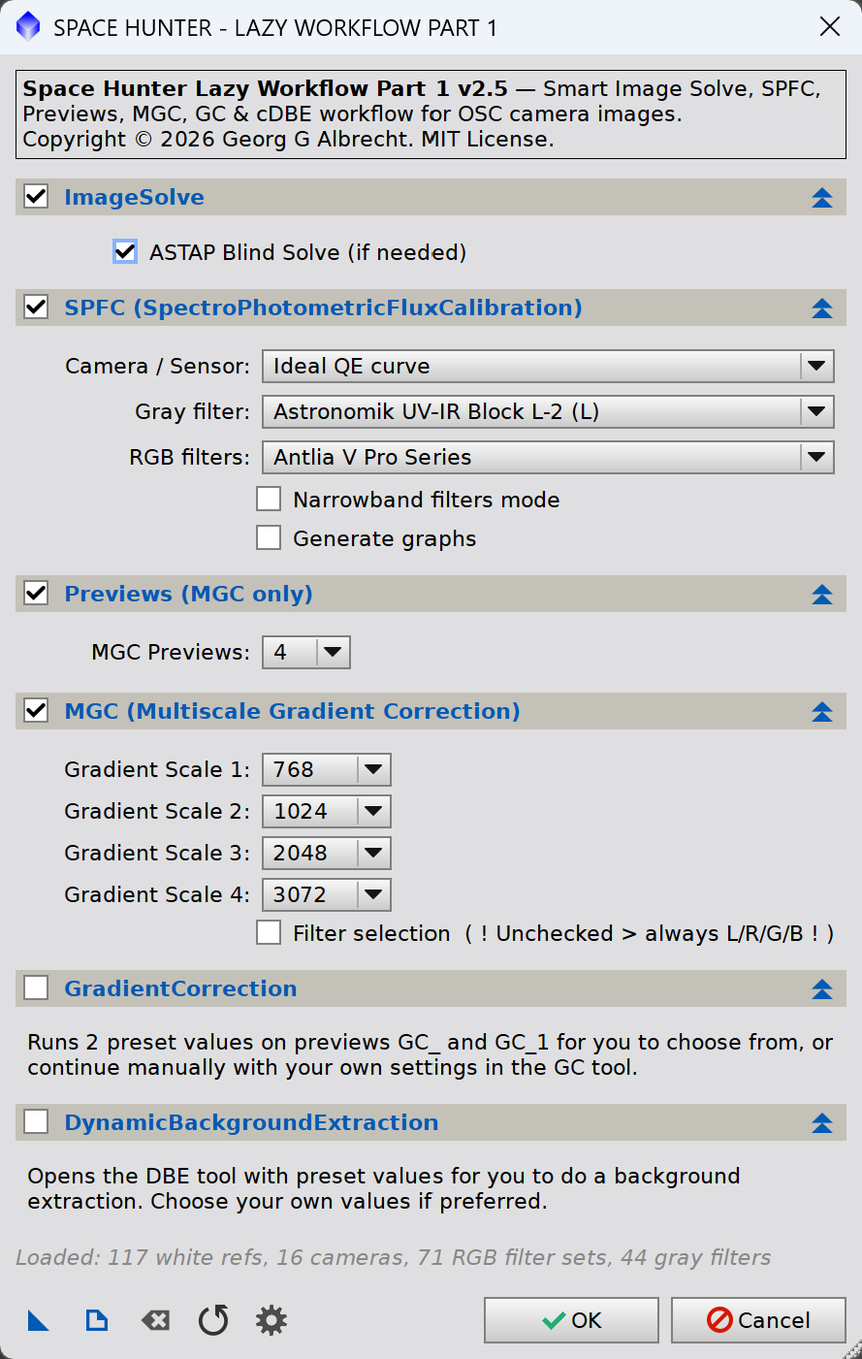
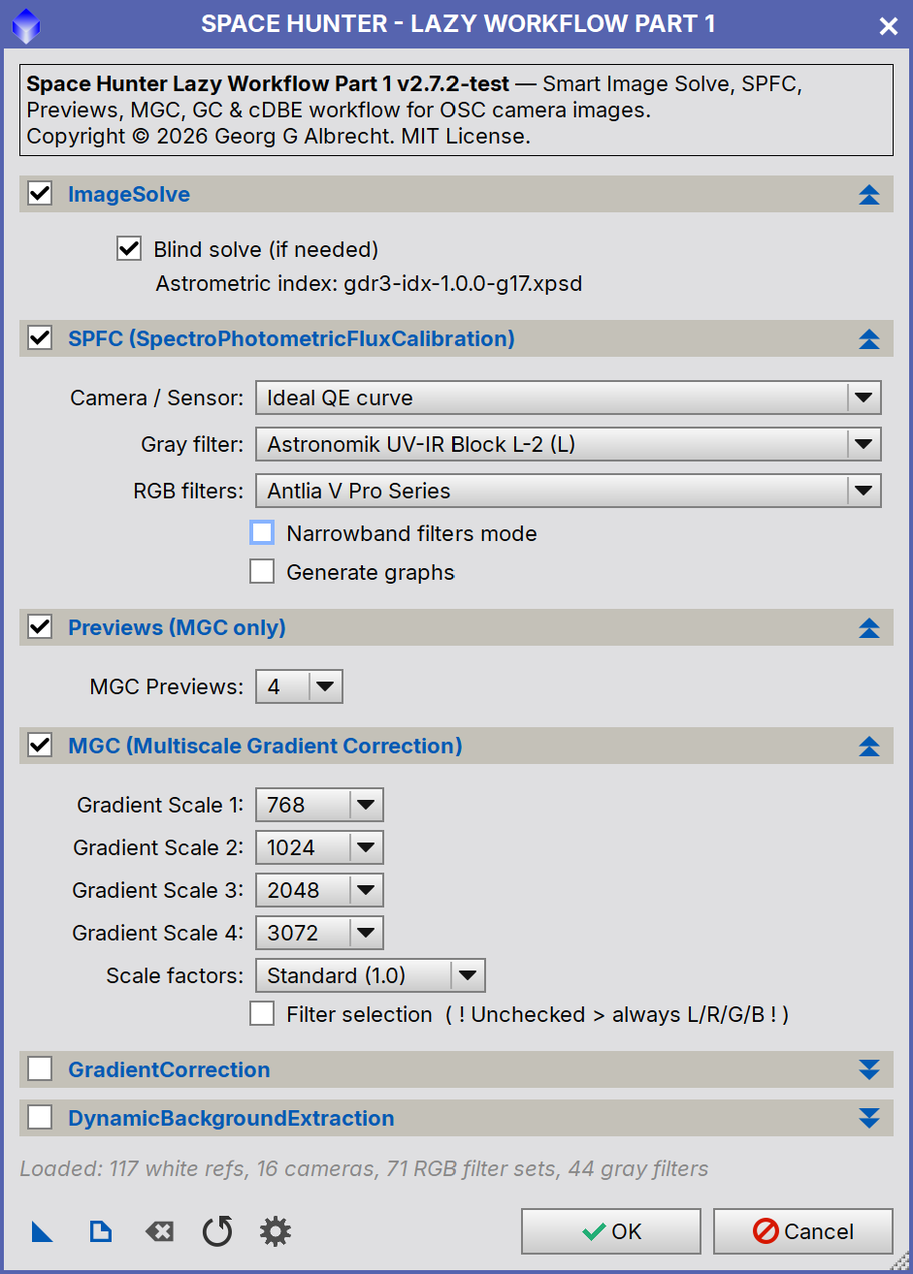
Part 1 manual for v2.7.4: scale factors, gradient scales, model panels
- New sections: Choosing Gradient Scales (pixels, drizzle 2x = double,
  starting values by arcsec/px) and Scale Factors (Standard / Automatic /
  Both, correlation and warning mark)
- Model window: factor header, shared stronger stretch, Add scale with Both;
  GC window: Show gradient models
- Preview names with _autoSF; re-run checks follow History Explorer
- Separation example 0.09 / 0.03, consistent on four targets
- New screenshots: dialog (default, dual-band), scale factor menu, MGC and
  GC windows

diff --git a/doc/scripts/SH Lazy Workflow Part 1/SH Lazy Workflow Part 1.html b/doc/scripts/SH Lazy Workflow Part 1/SH Lazy Workflow Part 1.html
@@ -3,7 +3,7 @@
 <head>
    <meta http-equiv="content-type" content="text/html; charset=UTF-8" />
    <title>PixInsight Reference Documentation | SH Lazy Workflow Part 1</title>
-   <meta name="keywords" content="Space Hunter, OSC, ASTAP, ImageSolver, SPFC, flux calibration, RGB, dual-narrowband, Ha/OIII separation, MultiscaleGradientCorrection, GradientCorrection, DynamicBackgroundExtraction" />
+   <meta name="keywords" content="Space Hunter, OSC, ImageSolver, blind solve, SPFC, flux calibration, RGB, dual-narrowband, Ha/OIII separation, MultiscaleGradientCorrection, GradientCorrection, DynamicBackgroundExtraction" />
    <meta name="author" content="Georg G. Albrecht" />
    <meta name="description" content="Automates the linear OSC workflow from plate solving to background extraction: smart plate solve, SPFC, previews and MGC, with GC and DBE as alternatives." />
    <meta name="robots" content="INDEX,FOLLOW" />
@@ -32,7 +32,7 @@
 <p>Automates the linear OSC workflow from plate solving to background extraction: smart plate solve, SPFC, previews and MGC, with GC and DBE as alternatives. <a href="#__contents__">[more]</a></p></div>
 
 <div id="keywords">
-<p><strong>Keywords:</strong> Space Hunter, OSC, ASTAP, ImageSolver, SPFC, flux calibration, RGB, dual-narrowband, Ha/OIII separation, MultiscaleGradientCorrection, GradientCorrection, DynamicBackgroundExtraction</p>
+<p><strong>Keywords:</strong> Space Hunter, OSC, ImageSolver, blind solve, SPFC, flux calibration, RGB, dual-narrowband, Ha/OIII separation, MultiscaleGradientCorrection, GradientCorrection, DynamicBackgroundExtraction</p>
 </div>
 
 <h3 class="pidoc_sectionTitle" id="__toc__">Contents</h3>
@@ -57,7 +57,9 @@
 <li class="pidoc_tocSubitem"><a href="#__Usage_:_Step_3_mdash_Create_Previews_MGC_only__">2.4&emsp;Step 3 &mdash; Create Previews (MGC only)</a></li>
 <li class="pidoc_tocSubitem"><a href="#__Usage_:_Step_4_mdash_MGC_MultiscaleGradientCorrection__">2.5&emsp;Step 4 &mdash; MGC (MultiscaleGradientCorrection)</a>
 <ul>
-<li class="pidoc_tocSubitem"><a href="#__Usage_:_Step_4_mdash_MGC_MultiscaleGradientCorrection_:_Choose_Background_Model__">2.5.1&emsp;Choose Background Model</a></li>
+<li class="pidoc_tocSubitem"><a href="#__Usage_:_Step_4_mdash_MGC_MultiscaleGradientCorrection_:_Choosing_Gradient_Scales__">2.5.1&emsp;Choosing Gradient Scales</a></li>
+<li class="pidoc_tocSubitem"><a href="#__Usage_:_Step_4_mdash_MGC_MultiscaleGradientCorrection_:_Scale_Factors__">2.5.2&emsp;Scale Factors</a></li>
+<li class="pidoc_tocSubitem"><a href="#__Usage_:_Step_4_mdash_MGC_MultiscaleGradientCorrection_:_Choose_Background_Model__">2.5.3&emsp;Choose Background Model</a></li>
 </ul>
 </li>
 <li class="pidoc_tocSubitem"><a href="#__Usage_:_Step_5_mdash_GC_GradientCorrection__">2.6&emsp;Step 5 &mdash; GC (GradientCorrection)</a></li>
@@ -111,11 +113,11 @@
 <a id="__figure_1__"></a>
 <p><span class="pidoc_figure_title">Figure 1 &mdash;</span>  <strong>Part 1 dialog</strong></p>
 <div class="pidoc_mouseover">
-<img class="pidoc_image_right" src="images/Part1_0.png" style="width:400px;" id="h4H1VOR2bcjxNi4C" alt="" />
+<img class="pidoc_image_right" src="images/Part1_0.png" style="width:400px;" id="qpW4aeGz4FqVbzHd" alt="" />
 <ul>
-<li><span class="pidoc_indicator_default" id="h4H1VOR2bcjxNi4C_1"></span><a href="javascript:void(0);" onmouseover="pidoc_setImgSrc('h4H1VOR2bcjxNi4C', 'images/Part1_0.png'); pidoc_hideGroup('h4H1VOR2bcjxNi4C', 3); pidoc_setOpacity('h4H1VOR2bcjxNi4C_1', 1.0);">Overview</a></li>
-<li><span class="pidoc_indicator" id="h4H1VOR2bcjxNi4C_2"></span><a href="javascript:void(0);" onmouseover="pidoc_setImgSrc('h4H1VOR2bcjxNi4C', 'images/Part1_1.png'); pidoc_hideGroup('h4H1VOR2bcjxNi4C', 3); pidoc_setOpacity('h4H1VOR2bcjxNi4C_2', 1.0);">Default settings</a></li>
-<li><span class="pidoc_indicator" id="h4H1VOR2bcjxNi4C_3"></span><a href="javascript:void(0);" onmouseover="pidoc_setImgSrc('h4H1VOR2bcjxNi4C', 'images/Part1_2.png'); pidoc_hideGroup('h4H1VOR2bcjxNi4C', 3); pidoc_setOpacity('h4H1VOR2bcjxNi4C_3', 1.0);">Dual-band filter: narrowband mode, Ha/OIII separation and MGC filter selection</a></li>
+<li><span class="pidoc_indicator_default" id="qpW4aeGz4FqVbzHd_1"></span><a href="javascript:void(0);" onmouseover="pidoc_setImgSrc('qpW4aeGz4FqVbzHd', 'images/Part1_0.png'); pidoc_hideGroup('qpW4aeGz4FqVbzHd', 3); pidoc_setOpacity('qpW4aeGz4FqVbzHd_1', 1.0);">Overview</a></li>
+<li><span class="pidoc_indicator" id="qpW4aeGz4FqVbzHd_2"></span><a href="javascript:void(0);" onmouseover="pidoc_setImgSrc('qpW4aeGz4FqVbzHd', 'images/Part1_1.png'); pidoc_hideGroup('qpW4aeGz4FqVbzHd', 3); pidoc_setOpacity('qpW4aeGz4FqVbzHd_2', 1.0);">Default settings</a></li>
+<li><span class="pidoc_indicator" id="qpW4aeGz4FqVbzHd_3"></span><a href="javascript:void(0);" onmouseover="pidoc_setImgSrc('qpW4aeGz4FqVbzHd', 'images/Part1_2.png'); pidoc_hideGroup('qpW4aeGz4FqVbzHd', 3); pidoc_setOpacity('qpW4aeGz4FqVbzHd_3', 1.0);">Dual-band filter: narrowband mode, Ha/OIII separation and MGC filter selection</a></li>
 </ul>
 </div>
 </div>
@@ -133,11 +135,11 @@
 </th>
 </tr>
 <tr>
-<td><p><a href="#step_solve">1 Plate Solve</a> (with ASTAP)</p>
+<td><p><a href="#step_solve">1 Plate Solve</a> (with blind solve)</p>
 </td>
 <td><p>On</p>
 </td>
-<td><p>Can run alone. ASTAP can only be on while Plate Solve is on.</p>
+<td><p>Can run alone. Blind solve can only be on while Plate Solve is on.</p>
 </td>
 </tr>
 <tr>
@@ -145,7 +147,7 @@
 </td>
 <td><p>On</p>
 </td>
-<td><p>Turning it on also turns on Plate Solve and ASTAP.</p>
+<td><p>Turning it on also turns on Plate Solve and blind solve.</p>
 </td>
 </tr>
 <tr>
@@ -198,9 +200,10 @@
 
 <ul class="pidoc_list">
 <li>If coordinates and image scale are present, the script solves the image with PixInsight's ImageSolver engine. No dialog opens.</li>
-<li class="pidoc_spaced_list_item">If they are missing and <strong>ASTAP Blind Solve</strong> is checked (the default), ASTAP runs first and writes the WCS keywords. A blind solve can take 10&ndash;30 seconds.</li>
+<li class="pidoc_spaced_list_item">If they are missing and <strong>Blind solve (if needed)</strong> is checked (the default), ImageSolver finds the position and scale from the stars alone. It also does this when solving with the keywords fails.</li>
 </ul>
 
+<p>Blind solving needs the Gaia astrometric index file, set in <span class="pidoc_menu">Process &gt; Astrometry &gt; Gaia</span> preferences (see <a href="#requirements">Requirements).</a> The Plate Solve section of the dialog shows the index file in use, or <em>No astrometric index set</em>. Without it, images that lack coordinates or image scale are not solved, and the console explains what to set up.</p>
 <p>If solving fails, the console says so. Solve the image manually with <span class="pidoc_menu">Script &gt; Image Analysis &gt; ImageSolver</span> and run Part 1 again.</p>
 <p>SPFC and MGC need this astrometric solution, and so does SPCC in Part 2.</p>
 </div>
@@ -269,17 +272,17 @@ Pleiades Astrophoto, <em>MultiscaleGradientCorrection &mdash; Dual-Band OSC Imag
 <li class="pidoc_spaced_list_item">Run Part 1 again, enter kG and kB, and click <strong>Save profile...</strong>.</li>
 </ol>
 
-<p>Example: IMX571 sensor with an Antlia ALP-T filter, kG = 0.115, kB = 0.05.</p>
+<p>Example: IMX571 sensor with an Antlia ALP-T filter, kG = 0.09, kB = 0.03. Checked on four different targets with this camera and filter, the factors agreed within &plusmn;0.01. Find them again only when you change camera or filter.</p>
 
 <div class="pidoc_figure">
 <a id="__figure_2__"></a>
 <p><span class="pidoc_figure_title">Figure 2 &mdash;</span>  <strong>The separation expressions in PixelMath</strong></p>
 <div class="pidoc_mouseover">
-<img class="pidoc_image_right" src="images/Part1_PixelMath_1.png" style="width:520px;" id="8EUDZUn36QgFcMsd" alt="" />
+<img class="pidoc_image_right" src="images/Part1_PixelMath_1.png" style="width:520px;" id="3D75t6OcxrwzcXWL" alt="" />
 <ul>
-<li><span class="pidoc_indicator_default" id="8EUDZUn36QgFcMsd_1"></span><a href="javascript:void(0);" onmouseover="pidoc_setImgSrc('8EUDZUn36QgFcMsd', 'images/Part1_PixelMath_1.png'); pidoc_hideGroup('8EUDZUn36QgFcMsd', 3); pidoc_setOpacity('8EUDZUn36QgFcMsd_1', 1.0);">R/K: unchanged</a></li>
-<li><span class="pidoc_indicator" id="8EUDZUn36QgFcMsd_2"></span><a href="javascript:void(0);" onmouseover="pidoc_setImgSrc('8EUDZUn36QgFcMsd', 'images/Part1_PixelMath_2.png'); pidoc_hideGroup('8EUDZUn36QgFcMsd', 3); pidoc_setOpacity('8EUDZUn36QgFcMsd_2', 1.0);">G: kG</a></li>
-<li><span class="pidoc_indicator" id="8EUDZUn36QgFcMsd_3"></span><a href="javascript:void(0);" onmouseover="pidoc_setImgSrc('8EUDZUn36QgFcMsd', 'images/Part1_PixelMath_3.png'); pidoc_hideGroup('8EUDZUn36QgFcMsd', 3); pidoc_setOpacity('8EUDZUn36QgFcMsd_3', 1.0);">B: kB</a></li>
+<li><span class="pidoc_indicator_default" id="3D75t6OcxrwzcXWL_1"></span><a href="javascript:void(0);" onmouseover="pidoc_setImgSrc('3D75t6OcxrwzcXWL', 'images/Part1_PixelMath_1.png'); pidoc_hideGroup('3D75t6OcxrwzcXWL', 3); pidoc_setOpacity('3D75t6OcxrwzcXWL_1', 1.0);">R/K: unchanged</a></li>
+<li><span class="pidoc_indicator" id="3D75t6OcxrwzcXWL_2"></span><a href="javascript:void(0);" onmouseover="pidoc_setImgSrc('3D75t6OcxrwzcXWL', 'images/Part1_PixelMath_2.png'); pidoc_hideGroup('3D75t6OcxrwzcXWL', 3); pidoc_setOpacity('3D75t6OcxrwzcXWL_2', 1.0);">G: kG</a></li>
+<li><span class="pidoc_indicator" id="3D75t6OcxrwzcXWL_3"></span><a href="javascript:void(0);" onmouseover="pidoc_setImgSrc('3D75t6OcxrwzcXWL', 'images/Part1_PixelMath_3.png'); pidoc_hideGroup('3D75t6OcxrwzcXWL', 3); pidoc_setOpacity('3D75t6OcxrwzcXWL_3', 1.0);">B: kB</a></li>
 </ul>
 </div>
 </div>
@@ -302,10 +305,10 @@ Pleiades Astrophoto, <em>MultiscaleGradientCorrection &mdash; Dual-Band OSC Imag
 <a id="__figure_3__"></a>
 <p><span class="pidoc_figure_title">Figure 3 &mdash;</span>  <strong>PixelMath instance source code as a profile</strong></p>
 <div class="pidoc_mouseover">
-<img class="pidoc_image_right" src="images/Part1_PixelMath_4.png" style="width:520px;" id="xaxVdYuRLqLIJ8NI" alt="" />
+<img class="pidoc_image_right" src="images/Part1_PixelMath_4.png" style="width:520px;" id="zAcTp2EKKkktVGey" alt="" />
 <ul>
-<li><span class="pidoc_indicator_default" id="xaxVdYuRLqLIJ8NI_1"></span><a href="javascript:void(0);" onmouseover="pidoc_setImgSrc('xaxVdYuRLqLIJ8NI', 'images/Part1_PixelMath_4.png'); pidoc_hideGroup('xaxVdYuRLqLIJ8NI', 2); pidoc_setOpacity('xaxVdYuRLqLIJ8NI_1', 1.0);">Instance Source Code button</a></li>
-<li><span class="pidoc_indicator" id="xaxVdYuRLqLIJ8NI_2"></span><a href="javascript:void(0);" onmouseover="pidoc_setImgSrc('xaxVdYuRLqLIJ8NI', 'images/Part1_PixelMath_5.png'); pidoc_hideGroup('xaxVdYuRLqLIJ8NI', 2); pidoc_setOpacity('xaxVdYuRLqLIJ8NI_2', 1.0);">The source code to save</a></li>
+<li><span class="pidoc_indicator_default" id="zAcTp2EKKkktVGey_1"></span><a href="javascript:void(0);" onmouseover="pidoc_setImgSrc('zAcTp2EKKkktVGey', 'images/Part1_PixelMath_4.png'); pidoc_hideGroup('zAcTp2EKKkktVGey', 2); pidoc_setOpacity('zAcTp2EKKkktVGey_1', 1.0);">Instance Source Code button</a></li>
+<li><span class="pidoc_indicator" id="zAcTp2EKKkktVGey_2"></span><a href="javascript:void(0);" onmouseover="pidoc_setImgSrc('zAcTp2EKKkktVGey', 'images/Part1_PixelMath_5.png'); pidoc_hideGroup('zAcTp2EKKkktVGey', 2); pidoc_setOpacity('zAcTp2EKKkktVGey_2', 1.0);">The source code to save</a></li>
 </ul>
 </div>
 </div>
@@ -330,6 +333,18 @@ Pleiades Astrophoto, <em>MultiscaleGradientCorrection &mdash; Dual-Band OSC Imag
 <td><p>Default run (with MGC)</p>
 </td>
 <td><p><span class="pidoc_code">BM_768,</span> <span class="pidoc_code">BM_1024,</span> ...: one background model per gradient scale. The same scale twice gives <span class="pidoc_code">BM_1024_1</span> (as in +Previews).</p>
+</td>
+</tr>
+<tr>
+<td><p>MGC with <a href="#scale_factors">Scale factors</a> <em>Automatic</em></p>
+</td>
+<td><p><span class="pidoc_code">BM_768_autoSF,</span> <span class="pidoc_code">BM_1024_autoSF,</span> ...</p>
+</td>
+</tr>
+<tr>
+<td><p>MGC with <a href="#scale_factors">Scale factors</a> <em>Both</em></p>
+</td>
+<td><p>Two per scale: <span class="pidoc_code">BM_768</span> and <span class="pidoc_code">BM_768_autoSF,</span> <span class="pidoc_code">BM_1024</span> and <span class="pidoc_code">BM_1024_autoSF,</span> ... (8 previews for 4 scales).</p>
 </td>
 </tr>
 <tr>
@@ -359,26 +374,130 @@ Pleiades Astrophoto, <em>MultiscaleGradientCorrection &mdash; Dual-Band OSC Imag
    <h4 class="pidoc_subsectionTitle">2.5&emsp;<a id="step_mgc"></a>Step 4 &mdash; MGC (MultiscaleGradientCorrection)</h4>
 <p>Runs MGC on each preview with its own gradient scale (default 768, 1024, 2048 and 3072), using the MARS database as reference. Each preview then shows its gradient model; the script pauses 3 seconds on each so you can follow along.</p>
 <p>By default MGC uses L/R/G/B. For a dual-band filter, check <strong>Filter selection</strong> and choose L, Ha, OIII, OIII, together with <a href="#step_spfc">narrowband filters mode</a> in SPFC and, ideally, the <a href="#separation">Ha/OIII separation</a> (<a href="#__figure_1__" class="pidoc_referenceTooltip" onmouseover="pidoc_showReferenceToolTip( this );" onmouseout="pidoc_hideReferenceToolTip();" data-tooltip="[Figure 1]">[1]</a>).</p>
+<div class="pidoc_subsection" id="__Usage_:_Step_4_mdash_MGC_MultiscaleGradientCorrection_:_Choosing_Gradient_Scales__">
+   <h5 class="pidoc_subsectionTitle">2.5.1&emsp;<a id="gradient_scale"></a>Choosing Gradient Scales</h5>
+<p>The gradient scale is measured in image pixels. The same piece of sky therefore needs a larger scale on a finely sampled image than on a coarse one, and a 2&times; drizzled master needs about twice the scale of the same master without drizzle.</p>
+<p>Good starting points by image scale (arcseconds per pixel; with drizzle use the drizzled value, e.g. 3.1&quot;/px at 2&times; drizzle = 1.55&quot;/px):</p>
+
+<table class="pidoc_table">
+<caption><a id="__table_2__"></a>
+<span class="pidoc_table_title">Table 2 &mdash;  Suggested starting gradient scale</span></caption>
+<tr>
+<th><p>Image scale</p>
+</th>
+<th><p>Start with</p>
+</th>
+<th><p>Example (native, no drizzle)</p>
+</th>
+</tr>
+<tr>
+<td><p>about 1.0&quot;/px</p>
+</td>
+<td><p>3072</p>
+</td>
+<td><p>IMX571 (3.76 &mu;m) at 800 mm</p>
+</td>
+</tr>
+<tr>
+<td><p>about 1.5&quot;/px</p>
+</td>
+<td><p>2048</p>
+</td>
+<td><p>IMX571 at 500 mm, or RedCat 51 at 2&times; drizzle</p>
+</td>
+</tr>
+<tr>
+<td><p>about 2.0&quot;/px</p>
+</td>
+<td><p>1536</p>
+</td>
+<td><p>IMX585 (2.9 &mu;m) at 300 mm</p>
+</td>
+</tr>
+<tr>
+<td><p>about 3.0&quot;/px</p>
+</td>
+<td><p>1024</p>
+</td>
+<td><p>IMX571 at 250 mm (RedCat 51)</p>
+</td>
+</tr>
+<tr>
+<td><p>about 4.0&quot;/px</p>
+</td>
+<td><p>768</p>
+</td>
+<td><p>IMX294 (4.63 &mu;m) at 250 mm</p>
+</td>
+</tr>
+</table>
+
+<p>Image scale = 206.265 &times; pixel size (&mu;m) / focal length (mm). Large, faint nebulae need larger scales than star fields. Set the four previews around the starting value and compare.</p>
+
+<div class="pidoc_note">
+<p>Measured on the same RedCat 51 / IMX571 dual-band master: best scale 2048 with 2&times; drizzle, 768&ndash;1024 without drizzle. Much larger scales (4096 on that drizzled master) became too coarse and left part of the gradient in the image.</p>
+</div>
+</div>
+
+<div class="pidoc_subsection" id="__Usage_:_Step_4_mdash_MGC_MultiscaleGradientCorrection_:_Scale_Factors__">
+   <h5 class="pidoc_subsectionTitle">2.5.2&emsp;<a id="scale_factors"></a>Scale Factors</h5>
+
+<div style="text-align:center;">
+<img style="width:520px;" src="images/Part1_ScaleFactors.png" alt=""/>
+</div>
+<p>MGC fits the MARS reference to your image with one scale factor per channel. Part 1 offers three settings:</p>
+
+<dl class="pidoc_list">
+<dt>
+<p>Standard (1.0)</p>
+</dt>
+<dd>
+<p>All factors 1.0 (the behaviour before v2.7).</p>
+</dd>
+<dt>
+<p>Automatic</p>
+</dt>
+<dd>
+<p>MGC computes one factor per channel itself, aiming for a model that contains no image structure. About the same run time as Standard. Preview names end in <span class="pidoc_code">_autoSF.</span></p>
+</dd>
+<dt>
+<p>Both (compare)</p>
+</dt>
+<dd>
+<p>Two previews per scale, <span class="pidoc_code">BM_&lt;scale&gt;</span> and <span class="pidoc_code">BM_&lt;scale&gt;_autoSF,</span> to compare in the model window. The warning icon is a reminder that this costs about 60&ndash;70% more MGC time: the MARS work is done once, but each scale is modelled twice.</p>
+</dd>
+</dl>
+
+<p>Automatic is not always better. In tests it gave a flatter background on 2&times; drizzled masters, but not on the same master without drizzle; the factors themselves also differ between drizzled and undrizzled versions of one image. Use <strong>Both</strong> when you are unsure, and decide in the model window.</p>
+<p>The automatic factors don't depend on the gradient scale, so they are the same for every <span class="pidoc_code">_autoSF</span> preview. The console and the model window show them together with their <em>correlation:</em> how clearly MGC could determine each factor. A factor with a correlation below 0.75 is marked &#9888; and is uncertain; compare it with the 1.0 model.</p>
+</div>
+
 <div class="pidoc_subsection" id="__Usage_:_Step_4_mdash_MGC_MultiscaleGradientCorrection_:_Choose_Background_Model__">
-   <h5 class="pidoc_subsectionTitle">2.5.1&emsp;<a id="choose_model"></a>Choose Background Model</h5>
+   <h5 class="pidoc_subsectionTitle">2.5.3&emsp;<a id="choose_model"></a>Choose Background Model</h5>
 
 <div style="text-align:center;">
 <img style="width:420px;" src="images/Part1_MGC.png" alt=""/>
 </div>
-<p>When all previews are done, the <strong>Choose background model</strong> window opens. While it is open, PixInsight is busy: you can't zoom or pan the image. Click a model in the list to show its preview.</p>
+<p>When all previews are done, the <strong>Choose background model</strong> window opens. While it is open, PixInsight is busy: you can't zoom or pan the image. Click a model in the list to show its preview. With automatic scale factors, the top of the window shows the factors and their correlation.</p>
 
 <dl class="pidoc_list">
 <dt>
 <p>Apply</p>
 </dt>
 <dd>
-<p>Applies the selected model to the main image at once: image &minus; model + median(model). The model used is noted in the FITS history.</p>
+<p>Applies the selected model to the main image at once: image &minus; model + median(model). The model used and its scale factors are noted in the FITS history.</p>
+</dd>
+<dt>
+<p>Stronger model stretch (same for all models)</p>
+</dt>
+<dd>
+<p>Display only. Shows every model with one stronger stretch, computed from all models together, so you compare like with like. Off: the models use the image's own stretch. Don't judge models with PixInsight's AutoSTF on each preview separately: it stretches every model differently.</p>
 </dd>
 <dt>
 <p>Add scale / Run MGC</p>
 </dt>
 <dd>
-<p>If none of the models is good enough, run MGC at another scale. It gets its own new <span class="pidoc_code">BM_</span> preview with the same settings and appears in the list, ready to compare and apply.</p>
+<p>If none of the models is good enough, run MGC at another scale. It gets its own new <span class="pidoc_code">BM_</span> preview with the same settings and appears in the list, ready to compare and apply. With <strong>Both</strong>, it adds the 1.0 and the <span class="pidoc_code">_autoSF</span> model.</p>
 </dd>
 <dt>
 <p>Remove background model previews after applying</p>
@@ -442,6 +561,7 @@ Pleiades Astrophoto, <em>MultiscaleGradientCorrection &mdash; Dual-Band OSC Imag
 <img style="width:520px;" src="images/Part1_GC.png" alt=""/>
 </div>
 <p>It works like <a href="#choose_model">Choose background model</a>: <strong>Apply</strong> copies the selected preview to the main image, <strong>Remove GC previews and model windows after applying</strong> is on by default, and <strong>Open GC tool instead</strong> opens GC with that preview's settings.</p>
+<p><strong>Show gradient models (same stretch for all)</strong> is for display only: clicking a result then brings its model window to the front instead of its preview, and both models get one shared stretch so they can be compared. Unchecked, the previews show again and the model windows get their own stretch back. <strong>Apply</strong> always uses the corrected preview.</p>
 
 <div class="pidoc_note">
 <p>Close old <span class="pidoc_code">GC_gradient_model</span> windows before running GC. Otherwise GC numbers the new models differently and they no longer match the preview names.</p>
@@ -459,7 +579,7 @@ Pleiades Astrophoto, <em>MultiscaleGradientCorrection &mdash; Dual-Band OSC Imag
 <div class="pidoc_warning">
 <p>If a gradient correction from this script (MGC or GC) is already applied, the script warns before it runs: correcting twice can damage the image. To try another model, go back one step in History Explorer first. The warning follows History Explorer: after undoing the correction, it no longer appears.</p>
 </div>
-<p>The separation and SPFC are skipped automatically when they were already applied to the image.</p>
+<p>The separation and SPFC are skipped automatically when they were already applied to the image. These checks follow History Explorer: if you go back to a state before plate solving or SPFC, the script solves and calibrates again.</p>
 <p>If you undo the image history back to the start, the astrometric solution is lost and the next run solves the image again.</p>
 </div>
 
@@ -476,7 +596,7 @@ Pleiades Astrophoto, <em>MultiscaleGradientCorrection &mdash; Dual-Band OSC Imag
 
 <ul class="pidoc_list">
 <li>Windows operating system.</li>
-<li class="pidoc_spaced_list_item">PixInsight 1.9.5 or later.</li>
+<li class="pidoc_spaced_list_item">PixInsight 1.9.6 or later.</li>
 <li class="pidoc_spaced_list_item">An image from a <strong>one-shot colour (OSC)</strong> camera, captured with a broadband, light-pollution or single dual-narrowband (DNB) filter. The RGB channels are <em>not</em> split into separate greyscale images.</li>
 <li class="pidoc_spaced_list_item">An image that is already cropped. If you stack in WBPP with <em>Auto Crop</em> and <em>Astrometric Solution</em> enabled, you can start without cropping and the plate solve step is skipped.</li>
 </ul>
@@ -485,7 +605,7 @@ Pleiades Astrophoto, <em>MultiscaleGradientCorrection &mdash; Dual-Band OSC Imag
 
 <ul class="pidoc_list">
 <li>The MARS database (any drive).</li>
-<li class="pidoc_spaced_list_item"><a href="https://www.hnsky.org/astap.htm" title="https://www.hnsky.org/astap.htm">ASTAP</a> with the D50 star database, preferably in <span class="pidoc_code">C:\Program Files\astap</span>.</li>
+<li class="pidoc_spaced_list_item">For images without coordinates or image scale in their FITS keywords: the Gaia astrometric index file (<span class="pidoc_code">gdr3-idx-1.0.0-g17.xpsd</span>, about 1.8 GB, from the PixInsight Software Distribution), set as <em>Astrometric Index File</em> in <span class="pidoc_menu">Process &gt; Astrometry &gt; Gaia</span> preferences. ImageSolver's blind solver needs it.</li>
 </ul>
 
 <p><strong>Part 2</strong></p>
@@ -500,7 +620,7 @@ Pleiades Astrophoto, <em>MultiscaleGradientCorrection &mdash; Dual-Band OSC Imag
 
 
 <div class="pidoc_note">
-<p>If the scripts can't find the MARS database or ASTAP the first time they run, they ask you to locate it. The path is saved for later runs. If BlurXTerminator or NoiseXTerminator isn't installed, that step is skipped. If StarXTerminator isn't installed, Part 2 uses StarNet2 instead.</p>
+<p>If the scripts can't find the MARS database the first time they run, they ask you to locate it. The path is saved for later runs. If BlurXTerminator or NoiseXTerminator isn't installed, that step is skipped. If StarXTerminator isn't installed, Part 2 uses StarNet2 instead.</p>
 </div>
 <p>If you combine two DNB filters (Ha/OIII and SII/OIII) into a Hubble-palette image, these scripts are not the right tool.</p>
 </div>
@@ -510,9 +630,8 @@ Pleiades Astrophoto, <em>MultiscaleGradientCorrection &mdash; Dual-Band OSC Imag
 <p>Besides your open images, this is everything the scripts store, write, start or download.</p>
 
 <ul class="pidoc_list">
-<li><strong>Settings:</strong> workflow and equipment settings, and the MARS and ASTAP paths, are stored in PixInsight's own settings (<em>Reset Settings</em> clears them).</li>
-<li class="pidoc_spaced_list_item"><strong>Part 1, ASTAP:</strong> if plate solving needs it, Part 1 starts <span class="pidoc_code">astap.exe</span> from the location you chose. It exports a temporary image (<span class="pidoc_code">astap_solve.jpg)</span> to the system temporary folder; ASTAP writes its <span class="pidoc_code">.wcs</span> and <span class="pidoc_code">.ini</span> results next to it. All three are deleted when the solve ends, successful or not. ASTAP is stopped after 2 minutes (targeted solve) or 10 minutes (blind solve); <em>Abort</em> in the Process Console stops it sooner.</li>
-<li class="pidoc_spaced_list_item"><strong>Part 1, ImageSolver:</strong> uses PixInsight's own ImageSolver, which writes temporary star lists (<span class="pidoc_code">stars*.csv</span>) to the system temporary folder.</li>
+<li><strong>Settings:</strong> workflow and equipment settings, and the MARS path, are stored in PixInsight's own settings (<em>Reset Settings</em> clears them).</li>
+<li class="pidoc_spaced_list_item"><strong>Part 1, ImageSolver:</strong> uses PixInsight's own ImageSolver, which writes temporary star lists (<span class="pidoc_code">stars*.csv</span>) to the system temporary folder. Its blind solver reads the astrometric index file set in the Gaia preferences. The scripts start no external programs.</li>
 <li class="pidoc_spaced_list_item"><strong>Part 1, MARS:</strong> the script looks for <span class="pidoc_code">.xmars</span> files in the PixInsight folders and in common <span class="pidoc_code">Astro</span> folders, reading only.</li>
 <li class="pidoc_spaced_list_item"><strong>Part 1, separation profiles:</strong> profiles are <span class="pidoc_code">.txt</span> files in the folder you choose. They are only read for their two factors, never run, and written only when you save one.</li>
 <li class="pidoc_spaced_list_item"><strong>Part 2, Check dust map:</strong> only when you click it, Part 2 sends the image's centre coordinates and field size to the NASA/IPAC IRSA dust service over https and downloads the dust map from that service only to the system temporary folder. The files are deleted afterwards, also when a download fails. No other data is sent, and no other part of the scripts uses the internet.</li>
@@ -603,7 +722,7 @@ Pleiades Astrophoto, <em>MultiscaleGradientCorrection &mdash; Dual-Band OSC Imag
    <h3 class="pidoc_sectionTitle">4&emsp;Acknowledgments</h3>
    <p class="pidoc_sectionToggleButton" onclick="pidoc_toggleSection( 'Acknowledgments', this );">[hide]</p>
    <div id="Acknowledgments">
-<p>Thanks to the PixInsight team (Pleiades Astrophoto) for PixInsight; to Franklin Marek (SetiAstro) for Blind Solver 2000, whose approach inspired the ASTAP solver step; and to Han Kleijn for ASTAP. Thanks also to the beta testers Jeff, Mike and Stefan.</p>
+<p>Thanks to the PixInsight team (Pleiades Astrophoto) for PixInsight and ImageSolver with its blind solver. Thanks also to the beta testers Jeff, Mike and Stefan.</p>
    </div>
 </div>
 
@@ -647,7 +766,7 @@ Pleiades Astrophoto, <em>MultiscaleGradientCorrection &mdash; Dual-Band OSC Imag
 </div>
 
 <div id="footer">
-   <p>Generated by the PixInsight Documentation Compiler script version 1.8.0 on 2026-10-24 03:50:35 UTC</p>
+   <p>Generated by the PixInsight Documentation Compiler script version 1.8.0 on 2026-11-02 00:51:52 UTC</p>
 </div>
 <br/>
 <br/>
